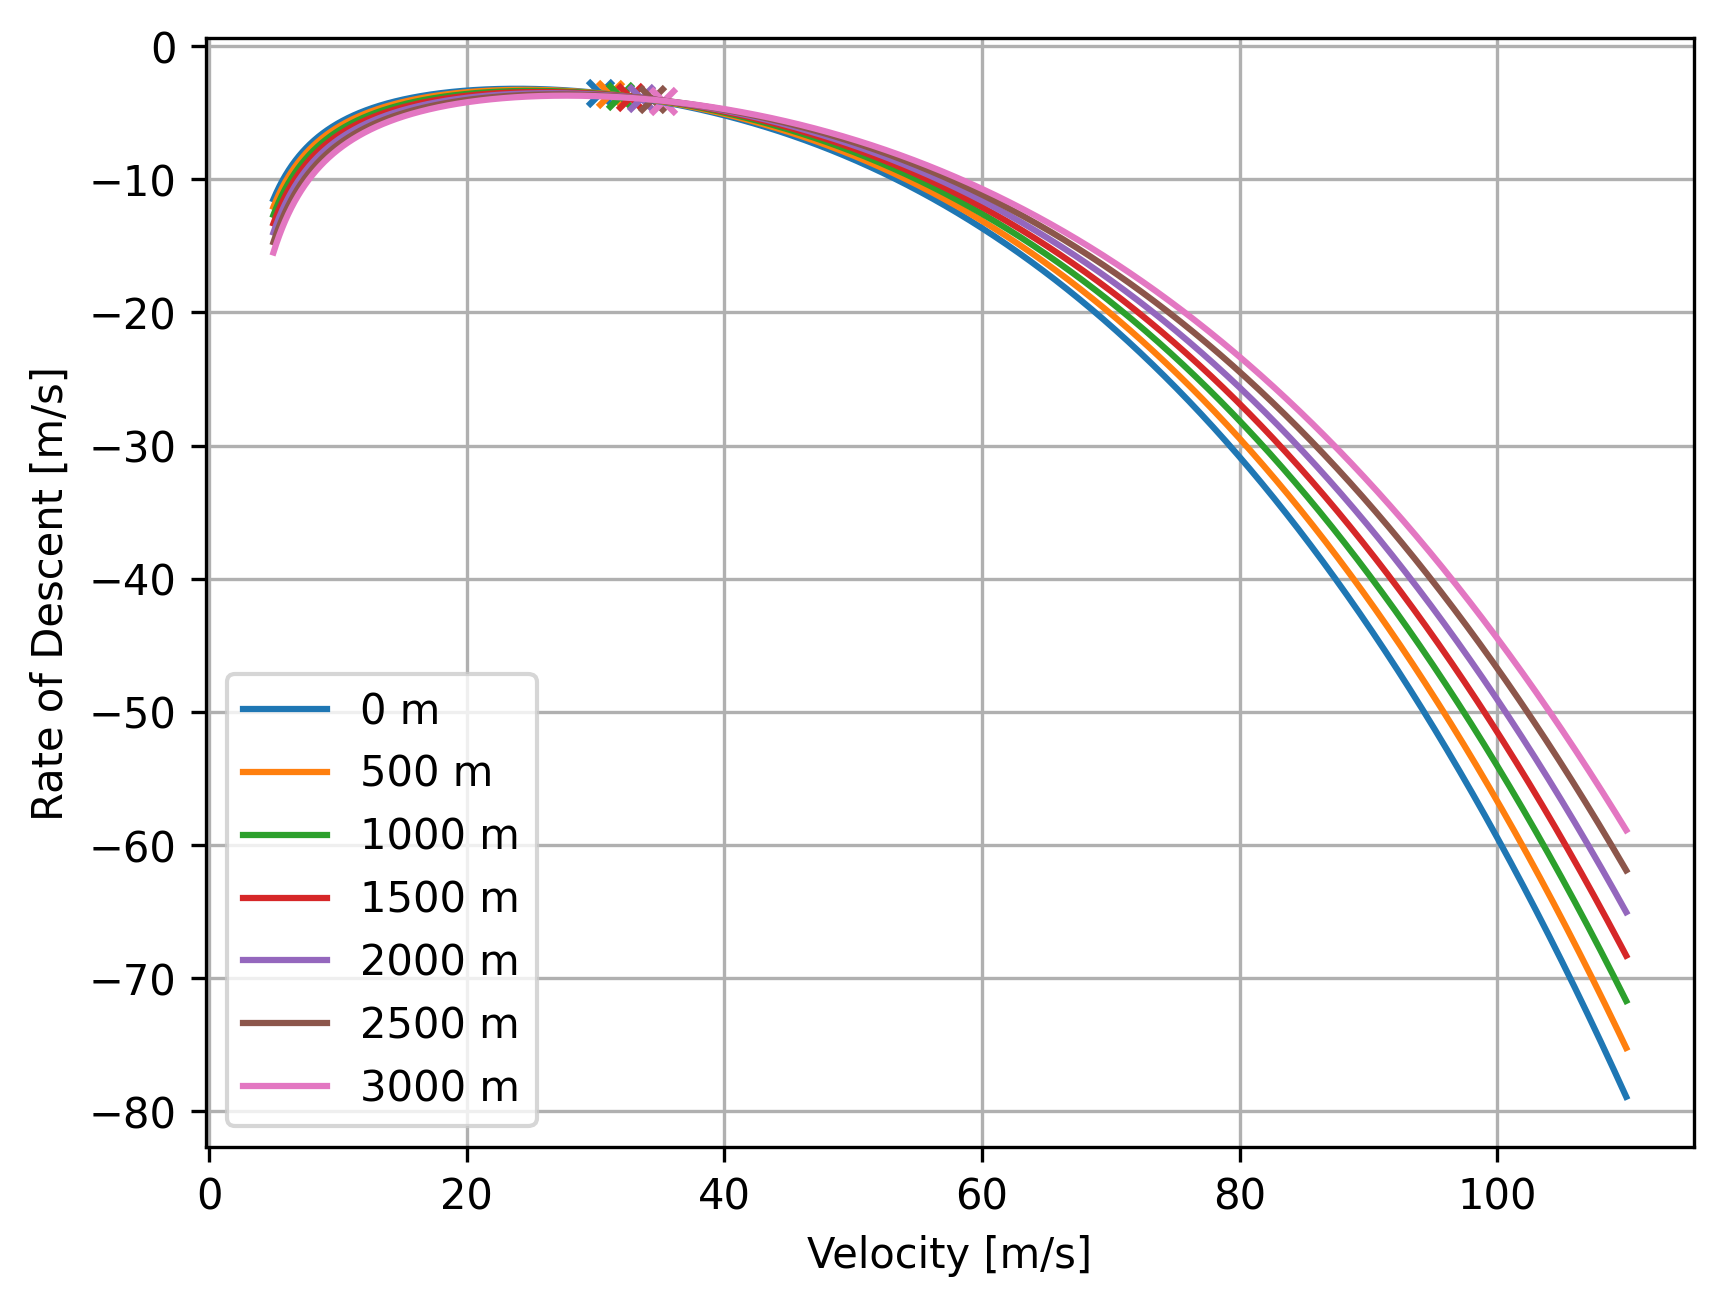
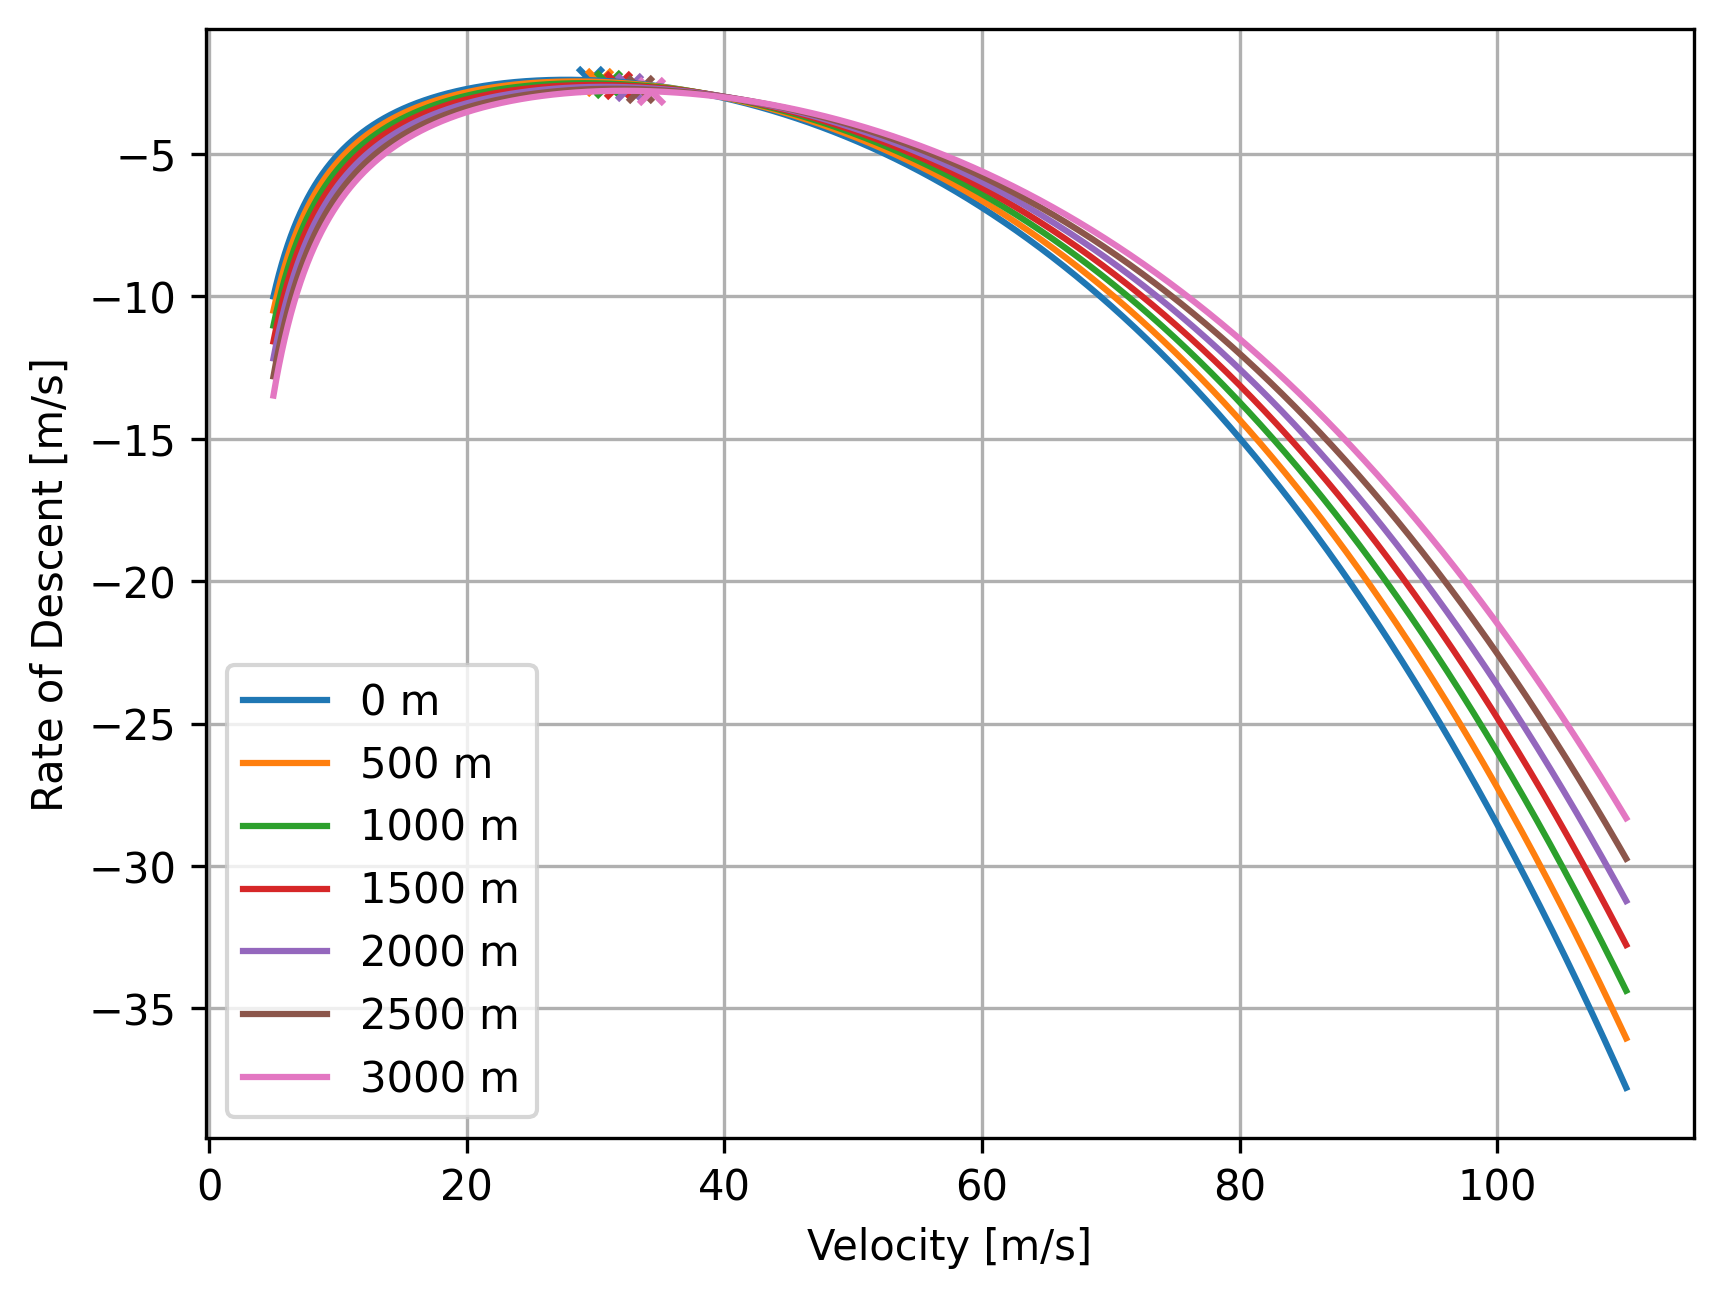
revised descent performance

diff --git a/performance_diagrams/descent_performance.py b/performance_diagrams/descent_performance.py
@@ -96,7 +96,7 @@ def required_airspeed(aod_unpowered, C_L, W,S,rho):
     return V_req
 
 # def descent_perf(delta_T, W, cd0,S,AR,e,T, C_l_max)
-descent_perf(0, 19502, 0.075, 25,9, 0.783, 200000,1.38)
+descent_perf(0, (1821*9.81), 0.03376, 24.23,10.18, 0.7521, 200000,1.38)
 
 
 #high AR negative effect on stall vs optimal

diff --git a/performance_diagrams/energy_heigt.py b/performance_diagrams/energy_heigt.py
@@ -12,7 +12,7 @@ from pathlib import Path
 from performance_diagrams import *
 
 
-alts = np.arange(0,2551,50)
+alts = np.arange(0,10001,50)
 print((alts))
 #V_array = np.arange(1,101,1)
 #print(np.shape(V_array))
